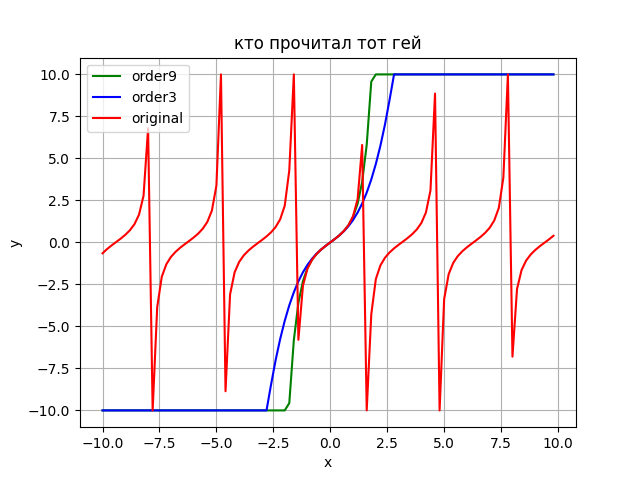
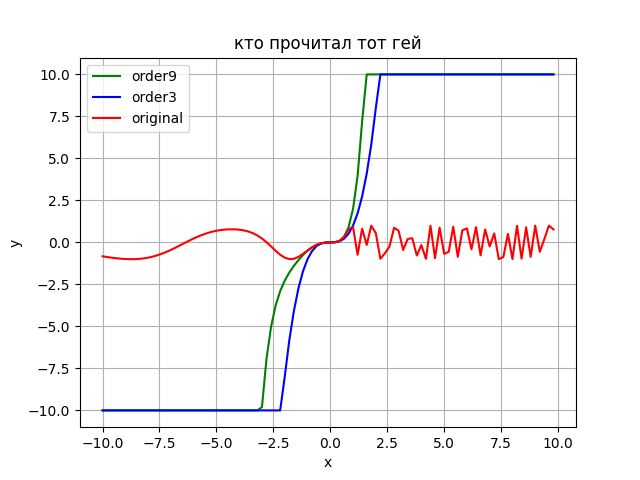
latex tree dump

Changed region(s): [[0.1562, 0.1562, 0.875, 0.875]]

diff --git a/ArifmeticTree/source/saveArifmTreeToFile.cpp b/ArifmeticTree/source/saveArifmTreeToFile.cpp
@@ -2,6 +2,10 @@
 
 #include "../include/commonFileStart.hpp"
 
+const size_t OUTPUT_BUFF_SIZE = 1 << 12;
+char allOutputBuffer[OUTPUT_BUFF_SIZE] = {};
+char* outputBuffPtr = allOutputBuffer;
+
 static ArifmTreeErrors recursiveTreeSaveToFile(const ArifmTree* tree, size_t nodeInd, size_t parentInd, char** buffer) {
     IF_ARG_NULL_RETURN(tree);
     IF_ARG_NULL_RETURN(buffer);
@@ -48,39 +52,46 @@ static ArifmTreeErrors recursiveTreeSaveToFile(const ArifmTree* tree, size_t nod
     return ARIFM_TREE_STATUS_OK;
 }
 
-static void saveTexBufferToFile(const char* fileName) {
-    assert(fileName != NULL);
+static ArifmTreeErrors renderTexFile(const char* fileName) {
+    IF_ARG_NULL_RETURN(fileName);
 
     system("mkdir -p latexPdfs");
-    const size_t TMP_BUFF_SIZE = 100;
-    char tmp[TMP_BUFF_SIZE] = {};
-    snprintf(tmp, TMP_BUFF_SIZE, "cd ./latexPdfs; xelatex %s > logErrors; cd ..", fileName);
-    system(tmp);
-}
-
-ArifmTreeErrors saveArifmTreeToFile(const ArifmTree* tree, const char* fileName) {
-    IF_ARG_NULL_RETURN(tree);
 
     const size_t TMP_BUFF_SIZE = 300;
     char tmp[TMP_BUFF_SIZE] = {};
     snprintf(tmp, TMP_BUFF_SIZE, "latexPdfs/%s", fileName);
-    FILE* file = fopen(tmp, "w");
+    FILE* file = fopen(tmp, "w"); // WARNING: it's bad that file is every time rewritten from scratch
     IF_NOT_COND_RETURN(file != NULL, ARIFM_TREE_FILE_OPENING_ERROR);
+    LOG_DEBUG_VARS(tmp, allOutputBuffer);
+    fprintf(file,
+        "\\documentclass[12pt,a4paper]{extreport}\n"
+        "\\begin{document}\n"
+        "$\n%s$\n"
+        "\\end{document}",
+        allOutputBuffer
+    );
+    IF_NOT_COND_RETURN(file != NULL, ARIFM_TREE_FILE_OPENING_ERROR);
+    fclose(file);
+
+    snprintf(tmp, TMP_BUFF_SIZE, "cd ./latexPdfs; xelatex %s > logErrors; cd ..", fileName);
+    system(tmp);
+
+    return ARIFM_TREE_STATUS_OK;
+}
+
+ArifmTreeErrors addTreeLatexRepresenationToFile(const ArifmTree* tree, const char* fileName) {
+    IF_ARG_NULL_RETURN(tree);
 
     char* buffer = NULL;
     IF_ERR_RETURN(recursiveTreeSaveToFile(tree, tree->root, 0, &buffer));
     //LOG_DEBUG_VARS(buffer);
 
-    fprintf(file,
-        "\\documentclass[12pt,a4paper]{extreport}\n"
-        "\\begin{document}\n"
-        "$%s$\n"
-        "\\end{document}\n",
-        buffer);
-    fclose(file);
+    outputBuffPtr += snprintf(outputBuffPtr, OUTPUT_BUFF_SIZE - (outputBuffPtr - allOutputBuffer),
+                                "\\\\\n%s\n", buffer);
     FREE(buffer);
+    LOG_DEBUG_VARS(allOutputBuffer);
 
-    saveTexBufferToFile(fileName);
+    renderTexFile(fileName);
 
     return ARIFM_TREE_STATUS_OK;
 }

diff --git a/source/main.cpp b/source/main.cpp
@@ -18,7 +18,7 @@
     } while(0)
 
 int main() {
-    //setLoggingLevel(DEBUG);
+    setLoggingLevel(DEBUG);
 
     //LOG_DEBUG("Hello world!");
 
@@ -52,16 +52,25 @@ int main() {
     FILE* file = fopen("pythonScripts/plotPoints.txt", "w");
     fprintf(file, "");
     fclose(file);
-    IF_MAIN_ARIFM_TREE_ERR_RETURN(getTaylorSeriesOfTree(&tree, &result, 7, getVariableIndex('x'), 0));
-    IF_MAIN_ARIFM_TREE_ERR_RETURN(addArifmTreePlot(&result, -10, 10, -10, 10, "g", "order9"));
-    IF_MAIN_ARIFM_TREE_ERR_RETURN(destructArifmTree(&result));
+
+    //addTreeLatexRepresenationToFile(&tree, "bruh.tex");
 
     IF_MAIN_ARIFM_TREE_ERR_RETURN(getTaylorSeriesOfTree(&tree, &result, 3, getVariableIndex('x'), 0));
-    IF_MAIN_ARIFM_TREE_ERR_RETURN(addArifmTreePlot(&result, -10, 10, -10, 10, "b", "order3"));
+    addTreeLatexRepresenationToFile(&tree, "bruh.tex");
+    addTreeLatexRepresenationToFile(&result, "bruh.tex");
+    IF_MAIN_ARIFM_TREE_ERR_RETURN(destructArifmTree(&result));
+    IF_MAIN_ARIFM_TREE_ERR_RETURN(getNthDerivativeOfTree(&tree, &result, 3));
+    addTreeLatexRepresenationToFile(&result, "bruh.tex");
+    //IF_MAIN_ARIFM_TREE_ERR_RETURN(addArifmTreePlot(&result, -10, 10, -10, 10, "g", "order9"));
     IF_MAIN_ARIFM_TREE_ERR_RETURN(destructArifmTree(&result));
 
-    IF_MAIN_ARIFM_TREE_ERR_RETURN(addArifmTreePlot(&tree, -10, 10, -10, 10, "r", "original"));
-    drawAllPlots();
+    // IF_MAIN_ARIFM_TREE_ERR_RETURN(getTaylorSeriesOfTree(&tree, &result, 3, getVariableIndex('x'), 0));
+    // //addTreeLatexRepresenationToFile(&result, "bruh.tex");
+    // IF_MAIN_ARIFM_TREE_ERR_RETURN(addArifmTreePlot(&result, -10, 10, -10, 10, "b", "order3"));
+    // IF_MAIN_ARIFM_TREE_ERR_RETURN(destructArifmTree(&result));
+
+    // IF_MAIN_ARIFM_TREE_ERR_RETURN(addArifmTreePlot(&tree, -10, 10, -10, 10, "r", "original"));
+    // drawAllPlots();
 
     //IF_MAIN_ARIFM_TREE_ERR_RETURN(destructArifmTree(&result));
     // IF_MAIN_ARIFM_TREE_ERR_RETURN(getNthDerivativeOfTree(&tree, &result, 2));

diff --git a/ArifmeticTree/include/arifmTree.hpp b/ArifmeticTree/include/arifmTree.hpp
@@ -13,7 +13,7 @@ ArifmTreeErrors getNewNode(ArifmTree* tree, size_t* newNodeIndex);
 
 //ArifmTreeErrors getPathToArifmTreeNode(const ArifmTree* tree, const Node* node, size_t** path);
 ArifmTreeErrors readArifmTreeFromFile(ArifmTree* tree, const char* fileName);
-ArifmTreeErrors saveArifmTreeToFile  (const ArifmTree* tree, const char* fileName);
+ArifmTreeErrors addTreeLatexRepresenationToFile(const ArifmTree* tree, const char* fileName);
 
 // static ArifmTreeErrors constructNodeWithKids(ArifmTree* tree, size_t* newNodeInd, TreeNodeType nodeType, const void* data,
 //                                              size_t leftSon, size_t rightSon);
